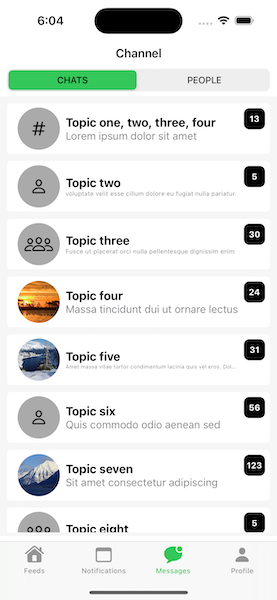
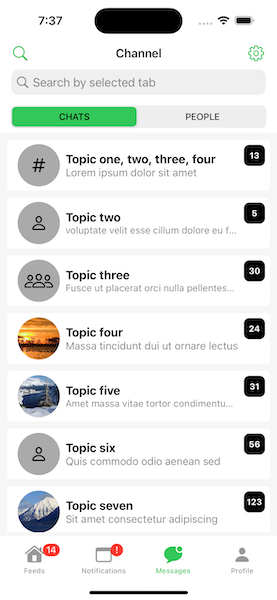
new screenshots

diff --git a/README.md b/README.md
@@ -91,11 +91,13 @@ A mobile application for bringing **digital training solution** in the luxury re
 
 <p float="left">
 	<img src="images/channels-chat.png" alt="Channels Chat" height="400">
+	<img src="images/channels-chat-search.png" alt="Channels Chat" height="400">
 	<img src="images/channels-chat-conversation.png" alt="Channels Chat Conversation" height="400">
 </p>
 
 <p float="left">
 	<img src="images/channels-people.png" alt="Channels User" height="400">
+	<img src="images/channels-people-search.png" alt="Channels User Search" height="400">
 </p>
 
 <p float="left">
